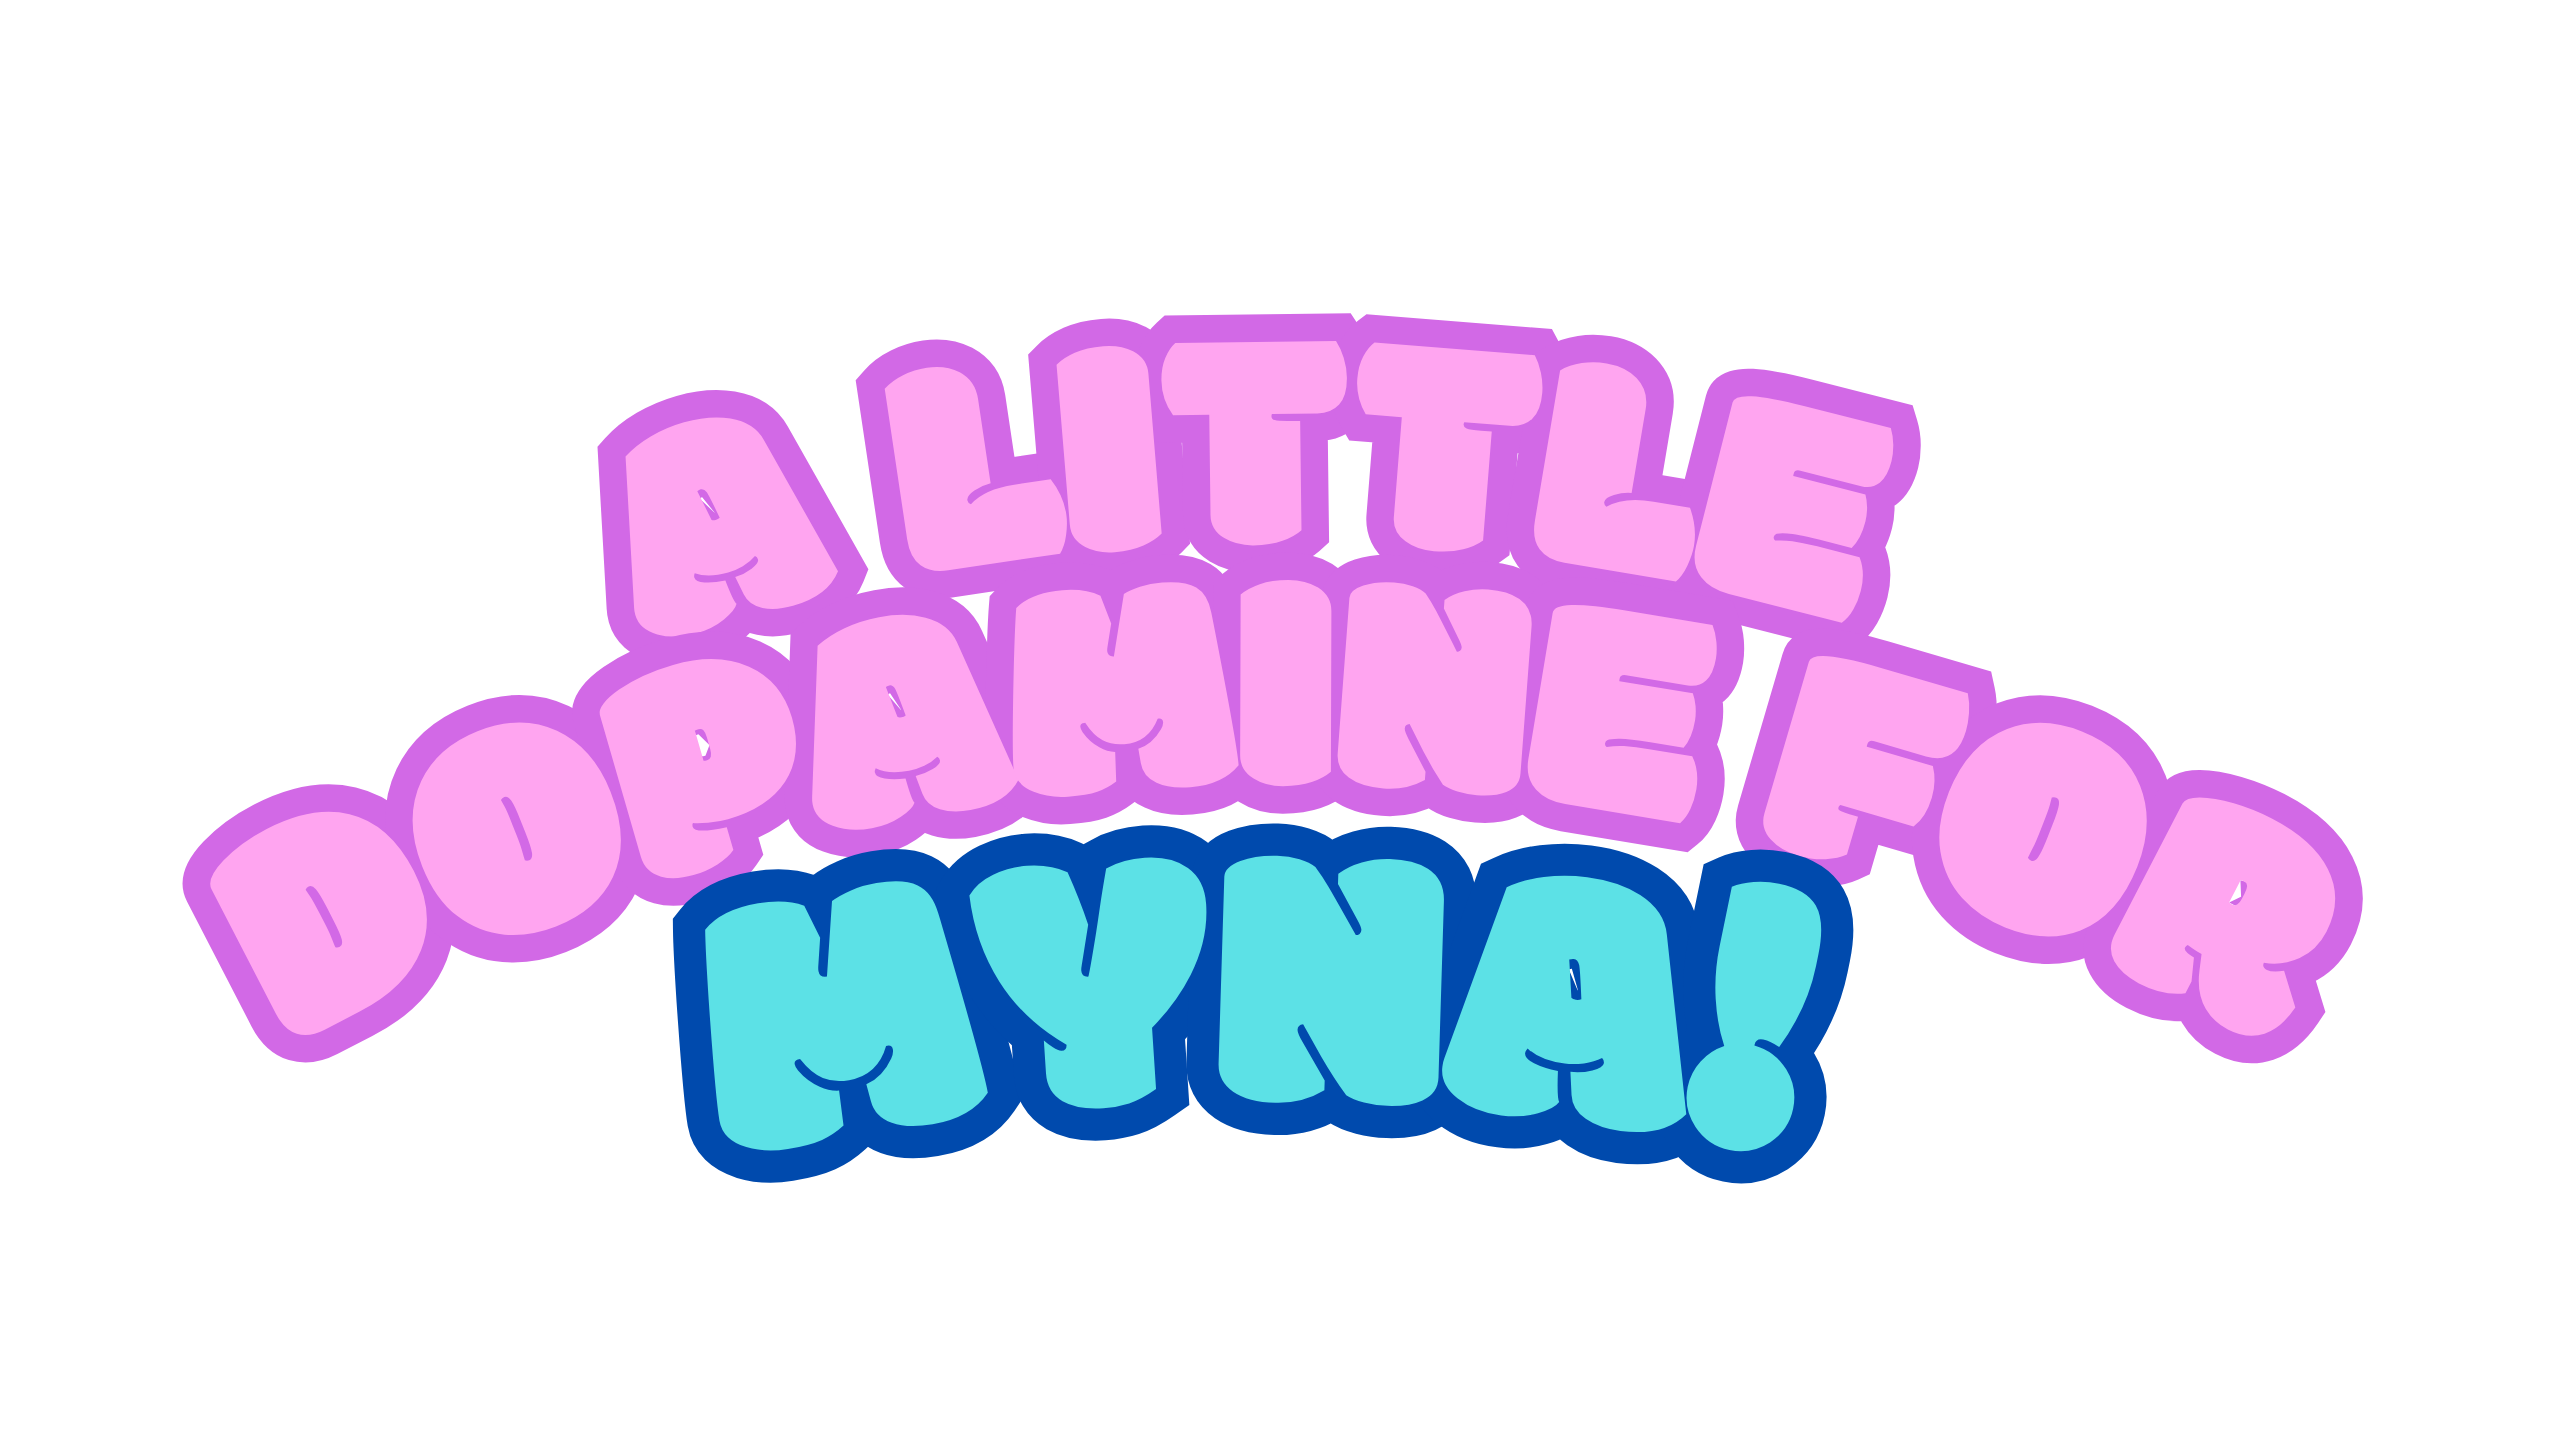
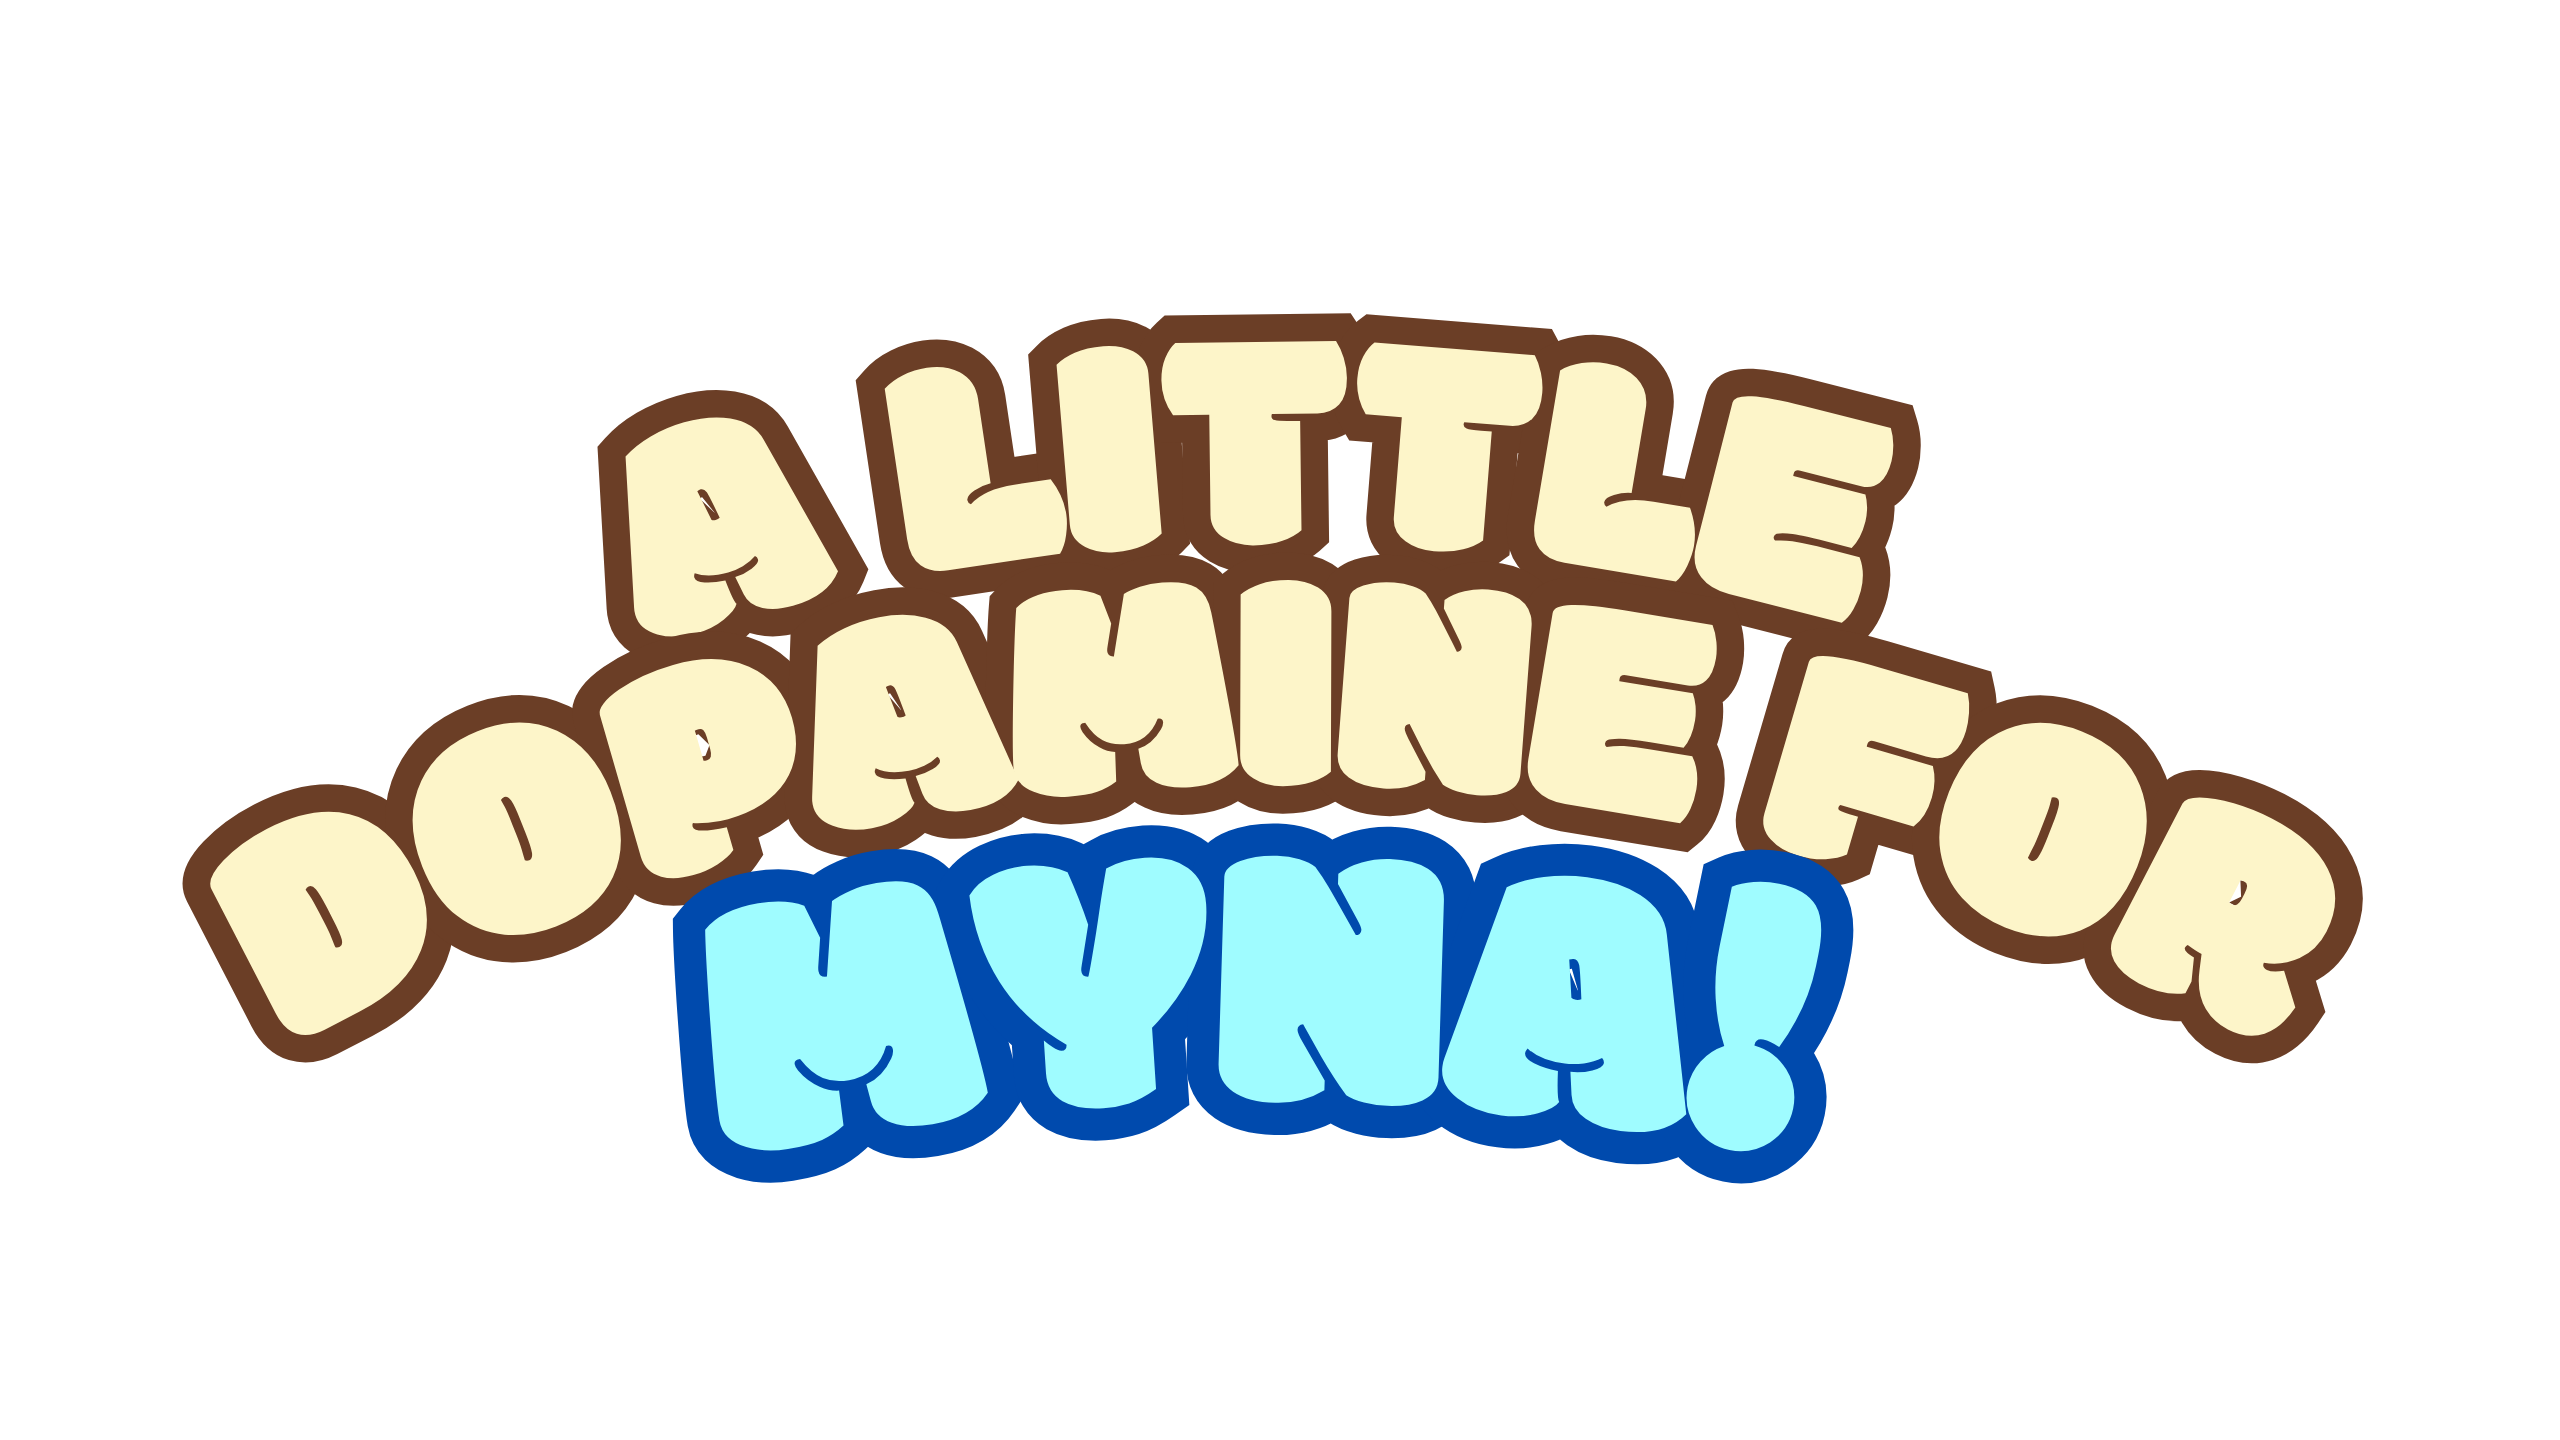
Update

Changed region(s): [[0.0625, 0.2188, 0.9375, 0.8125]]

diff --git a/src/pages/IndexPage.vue b/src/pages/IndexPage.vue
@@ -1,7 +1,7 @@
 <template>
   <section
-    class="min-h-screen bg-cover bg-center text-black relative flex items-center justify-center"
-    style="background-image: url('/bg.png')"
+     class="min-h-screen font-cute bg-cover bg-center text-black relative flex items-center justify-center"
+  style="background-image: url('/bg.png')"
   >
     <!-- Background blur overlay -->
     <div class="absolute inset-0 backdrop-blur-[2px] bg-white/10"></div>
@@ -42,97 +42,83 @@
 
       <!-- Cat -->
       <div class="relative mb-10">
-        <img
-          :src="catImage"
-          :class="[
-            'mx-auto w-80 transition-all duration-500',
-            isHappy && 'scale-105',
-            showPulse && 'animate-bounce-pulse'
-          ]"
-          alt="Cute Cat"
-        />
+       <img
+  ref="catEl"
+  :src="catImage"
+  :class="[
+    'mx-auto w-80 transition-all duration-500 rounded-xl',
+    isHappy && 'scale-105',
+    showPulse && 'animate-bounce-pulse'
+  ]"
+  alt="Cute Cat"
+/>
       </div>
 
       <!-- Actions -->
       <transition name="fade" appear>
-       <div
+<div
   v-show="showActions"
-  class="flex flex-row justify-center gap-6 mt-6"
+  class="flex flex-row justify-center gap-12 mt-6"
 >
-          <!-- Feed Button -->
-          <button
-            @click="feedCat"
-            class="bg-yellow-300 hover:bg-yellow-400 text-yellow-900 font-semibold rounded-full min-w-[150px] py-3 flex items-center justify-center gap-2 shadow-lg hover:shadow-xl transition-all duration-300 active:scale-95"
-          >
-            <img src="/catfood.png" alt="Paw Icon" class="w-6 h-6" />Feed the Cat
-          </button>
+  <!-- Feed Button -->
+  <div class="flex flex-col items-center">
+    <img
+      ref="foodEl"
+      src="/catfood.png"
+      alt="Cat Food"
+      @click="flyFood"
+      class="w-30 h-30 cursor-pointer hover:scale-110 transition-transform drop-shadow-lg"
+    />
+    <span class="text-sm text-gray-700 mt-1">Tap to Feed</span>
+  </div>
 
-          <!-- Pet Button -->
-          <button
-            @click="petCat"
-            class="bg-pink-300 hover:bg-pink-400 text-pink-900 font-semibold rounded-full min-w-[150px] py-3 flex items-center justify-center gap-2 shadow-lg hover:shadow-xl transition-all duration-300 active:scale-95"
-          >
-            <img src="/peticon.png" alt="Paw Icon" class="w-6 h-6" /> Pet the Cat
-          </button>
-        </div>
+  <!-- Pet Button -->
+  <div class="flex flex-col items-center">
+    <img
+      ref="petEl"
+      src="/peticon.png"
+      alt="Pet Cat"
+      @click="flyPet"
+      class="w-30 h-30 cursor-pointer hover:scale-110 transition-transform drop-shadow-lg"
+    />
+    <span class="text-sm text-gray-700 mt-1">Tap to Pet</span>
+  </div>
+</div>
+
       </transition>
 
       <!-- Reveal Secret -->
       <div class="mt-8 flex justify-center min-h-[50px]">
         <button
-          v-show="showSecretButton"
-          @click="showSecret = true"
-          class="bg-purple-400 hover:bg-purple-500 text-purple-900 font-semibold rounded-full min-w-[150px] py-3 flex items-center justify-center gap-2 shadow-lg hover:shadow-xl transition-all duration-300 active:scale-95"
-        >
-          <img src="/spark.png" alt="Paw Icon" class="w-6 h-6" /> Reveal a Secret
-        </button>
+  v-show="showSecretButton"
+  @click="showSecret = true"
+  class="bg-[#fdf5c9] text-[#6b3e26] font-semibold rounded-full min-w-[150px] py-3 flex items-center justify-center gap-2 shadow-lg border-2 border-[#6b3e26] hover:bg-[#fdf0b8] hover:shadow-xl transition-all duration-300 active:scale-95"
+>
+  <img src="/spark.png" alt="Paw Icon" class="w-6 h-6" /> Reveal a Secret
+</button>
       </div>
     </div>
 
     <!-- Modal -->
-    <div
-      v-if="showSecret"
-      class="fixed inset-0 flex items-center justify-center z-50 bg-black/40"
-    >
-      <div class="bg-blue-100 rounded-xl p-6 max-w-lg w-full shadow-lg flex flex-col relative">
-        <img src="/me.JPG" class="w-60 h-60 rounded-full mx-auto mb-4 object-cover" />
-        <h2 class="text-2xl font-bold mb-2 text-center">Hey, it&apos;s Fritz</h2>
-        <p class="text-gray-500 mb-4 text-center">
-          I made this just for you, hope it made you smile! 💗
-        </p>
-        <p class="text-gray-500 mb-6 text-center">
-          If you see this and liked it… maybe check out 
-          <a href="https://www.instagram.com/lemonjuice_ee/" target="_blank" class="text-pink-600 hover:underline font-semibold">My IG</a> ?
-        </p>
-        <div class="flex justify-center mb-2">
-          <button
-            @click="alert('Yay! Let’s squad up in Mobile Legends 😎')"
-            class="bg-yellow-400 hover:bg-yellow-500 px-6 py-2 rounded-lg font-semibold shadow-md hover:shadow-lg transition-all"
-          >
-            Play Mobile Legends with me? 🎮
-          </button>
-        </div>
-        <div class="flex items-center justify-center mb-6 gap-2">
-          <p class="text-gray-500 text-center font-semibold">
-            LemonJuicee: <span id="ml-number">43826446</span>
-          </p>
-          <button
-            @click="copyNumber"
-            class="bg-blue-400 px-3 py-1 rounded-lg text-sm transition-colors"
-          >
-            Copy
-          </button>
-        </div>
-        <div class="flex justify-end">
-          <button
-            @click="showSecret = false"
-            class="bg-pink-600 hover:bg-pink-700 px-4 py-2 rounded-lg"
-          >
-            Close
-          </button>
-        </div>
-      </div>
+<!-- Secret Modal -->
+<!-- Secret Modal -->
+<div v-if="showSecret" class="fixed inset-0 flex items-center justify-center z-50 bg-black/40">
+
+  <!-- Envelope only -->
+  <img
+    v-if="!envelopeClicked"
+    src="/envelope.png"
+    alt="Secret Envelope"
+    class="w-140 h-80 cursor-pointer"
+    @click="envelopeClicked = true"
+  />
+
+  <!-- Secret message -->
+  <div v-else class="bg-[#fdf5c9] border-4 border-[#6b3e26] rounded-xl p-6 max-w-lg w-full shadow-lg flex flex-col items-center relative">
+<img src="/me.JPG" class="w-60 h-60 rounded-full mx-auto mb-4 object-cover" /> <h2 class="text-2xl font-bold mb-2 text-center">Hey, it&apos;s Fritz</h2> <p class="text-gray-500 mb-4 text-center"> I made this just for you, hope it made you smile! 💗 </p> <p class="text-gray-500 mb-6 text-center"> If you see this and liked it… maybe check out <a href="https://www.instagram.com/lemonjuice_ee/" target="_blank" class="text-pink-600 hover:underline font-semibold">My IG</a> ? </p> <div class="flex justify-center mb-2"> <button @click="alert('Yay! Let’s squad up in Mobile Legends 😎')" class="bg-yellow-400 hover:bg-yellow-500 px-6 py-2 rounded-lg font-semibold shadow-md hover:shadow-lg transition-all" > Play Mobile Legends with me? 🎮 </button> </div> <div class="flex items-center justify-center mb-6 gap-2"> <p class="text-gray-500 text-center font-semibold"> LemonJuicee: <span id="ml-number">43826446</span> </p> <button @click="copyNumber" class="bg-blue-400 px-3 py-1 rounded-lg text-sm transition-colors" > Copy </button> </div> <div class="flex justify-end"> <button @click="showSecret = false" class="bg-pink-600 hover:bg-pink-700 px-4 py-2 rounded-lg" > Close </button>
     </div>
+  </div>
+</div>
   </section>
 </template>
 
@@ -145,10 +131,17 @@ const petted = ref(false)
 const hasFed = ref(false)
 const hasPetted = ref(false)
 const showPulse = ref(false)
-const showSecret = ref(false)
+
 
 const meowFeed = new Audio('/meow1.wav')  // path relative to public
 const meowPet  = new Audio('/meow2.wav')
+const isFeeding = ref(false)
+const petEl = ref(null)
+const isPetting = ref(false)
+
+const showSecret = ref(false)       // user clicked "Reveal a Secret"
+const envelopeClicked = ref(false)  // user clicked/tapped the envelope
+
 
 onMounted(() => {
   setTimeout(() => showActions.value = true, 1000)
@@ -167,6 +160,100 @@ onMounted(() => {
 })
 const startMusicOnClick = () => bgMusic.play()
 window.addEventListener('click', startMusicOnClick, { once: true })
+const onDragStart = (e) => {
+  e.dataTransfer.setData('text/plain', 'food')
+  isDragging.value = true
+}
+
+const foodEl = ref(null)
+const catEl = ref(null)
+
+const flyFood = () => {
+  if (isFeeding.value) return
+  if (!foodEl.value || !catEl.value) return
+
+  isFeeding.value = true
+
+  const foodRect = foodEl.value.getBoundingClientRect()
+  const catRect = catEl.value.getBoundingClientRect()
+
+  const clone = foodEl.value.cloneNode(true)
+  document.body.appendChild(clone)
+
+  clone.style.position = 'fixed'
+  clone.style.left = foodRect.left + 'px'
+  clone.style.top = foodRect.top + 'px'
+  clone.style.width = foodRect.width + 'px'
+  clone.style.height = foodRect.height + 'px'
+  clone.style.transition =
+    'transform 0.6s cubic-bezier(0.4, 0, 0.2, 1), opacity 0.6s'
+  clone.style.zIndex = 9999
+
+  clone.getBoundingClientRect()
+
+  const targetX =
+    catRect.left + catRect.width / 2 - foodRect.left - foodRect.width / 2
+  const targetY =
+    catRect.top + catRect.height / 2 - foodRect.top - foodRect.height / 2
+
+  clone.style.transform = `translate(${targetX}px, ${targetY}px) scale(0.2)`
+  clone.style.opacity = '0'
+
+  setTimeout(() => {
+    clone.remove()
+    feedCat()
+    isFeeding.value = false
+  }, 600)
+}
+
+const flyPet = () => {
+  if (isPetting.value) return
+  if (!petEl.value || !catEl.value) return
+
+  isPetting.value = true
+
+  const petRect = petEl.value.getBoundingClientRect()
+  const catRect = catEl.value.getBoundingClientRect()
+
+  const clone = petEl.value.cloneNode(true)
+  document.body.appendChild(clone)
+
+  clone.style.position = 'fixed'
+  clone.style.left = petRect.left + 'px'
+  clone.style.top = petRect.top + 'px'
+  clone.style.width = petRect.width + 'px'
+  clone.style.height = petRect.height + 'px'
+  clone.style.transition =
+    'transform 0.5s cubic-bezier(0.34, 1.56, 0.64, 1), opacity 0.5s'
+  clone.style.zIndex = 9999
+
+  clone.getBoundingClientRect()
+
+  const targetX =
+    catRect.left + catRect.width / 2 - petRect.left - petRect.width / 2
+  const targetY =
+    catRect.top + catRect.height / 2 - petRect.top - petRect.height / 2
+
+  clone.style.transform = `translate(${targetX}px, ${targetY}px) scale(0.3)`
+  clone.style.opacity = '0'
+
+  setTimeout(() => {
+    clone.remove()
+    petCat()
+    isPetting.value = false
+  }, 500)
+}
+
+const petCat = () => {
+  petted.value = true
+  fed.value = false
+  hasPetted.value = true
+  showPulse.value = true
+  meowPet.currentTime = 0
+  meowPet.play()
+
+  setTimeout(() => (showPulse.value = false), 500)
+}
 
 const catImage = computed(() => {
   if (petted.value) return '/catpet.png'
@@ -178,16 +265,14 @@ const isHappy = computed(() => fed.value || petted.value)
 const feedCat = () => {
   fed.value = true
   petted.value = false
-  hasFed.value = true
-  meowFeed.play()  // plays meow1.wav
+  hasFed.value = true   // keep for secret unlock logic
+  showPulse.value = true
+  meowFeed.currentTime = 0
+  meowFeed.play()
+
+  setTimeout(() => (showPulse.value = false), 500)
 }
 
-const petCat = () => {
-  petted.value = true
-  fed.value = false
-  hasPetted.value = true
-  meowPet.play()   // plays meow2.wav
-}
 const copyNumber = () => {
   const number = document.getElementById('ml-number').innerText
   navigator.clipboard.writeText(number).then(() => alert('Copied!')).catch(() => alert('Failed'))
@@ -243,5 +328,8 @@ onMounted(() => createPaws(25))
   animation-name: float-paw;
   animation-timing-function: linear;
   animation-iteration-count: infinite;
+}
+section {
+  font-family: 'Quicksand', sans-serif;
 }
 </style>

diff --git a/index.html b/index.html
@@ -5,6 +5,10 @@
     <link rel="icon" href="/pawicon.png" />
     <meta name="viewport" content="width=device-width, initial-scale=1.0" />
     <title>for myna</title>
+    <link rel="preconnect" href="https://fonts.googleapis.com">
+  <link rel="preconnect" href="https://fonts.gstatic.com" crossorigin>
+  <link href="https://fonts.googleapis.com/css2?family=Baloo+2:wght@400;600;700
+&display=swap" rel="stylesheet">
   </head>
   <body>
     <div id="app"></div>
